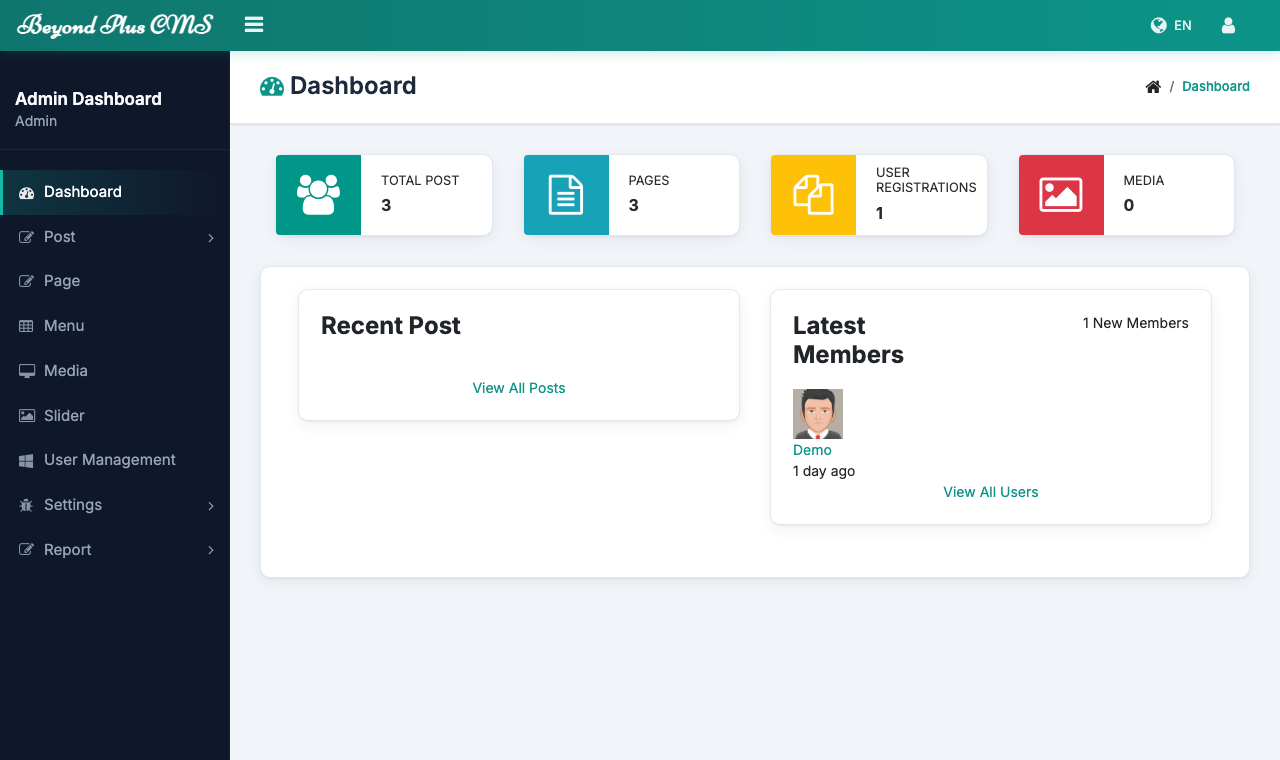
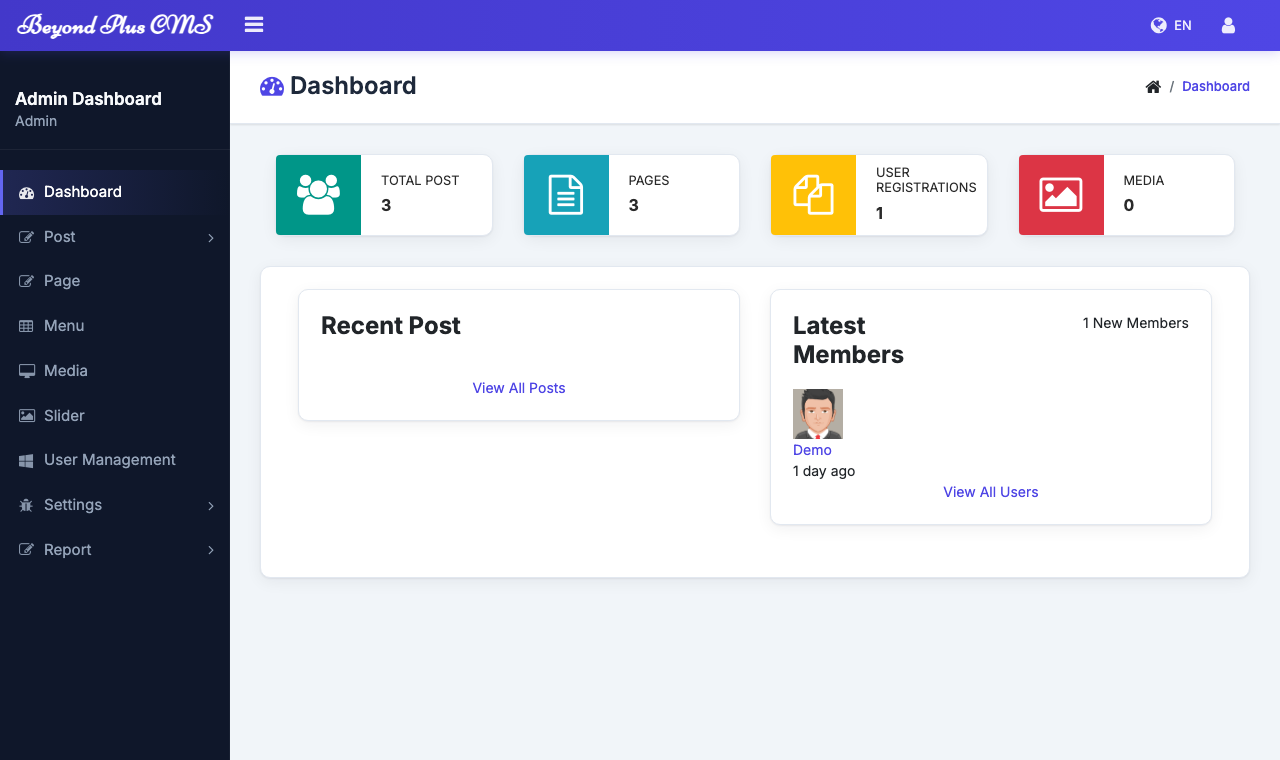
Recolour the admin from teal to indigo
Switch the backend palette to indigo per design preference: header gradient
#4338CA -> #4F46E5, active menu / accents #6366F1, buttons #4F46E5 (hover
#3730A3), focus ring #818CF8; the dark slate sidebar is unchanged. Applied to
bp-admin-theme.css, the admin + generic login pages, and the teal accents in the
plugin/theme/menu/permission views. Green is kept only for semantic "Active"
status badges. Refresh the admin screenshots to match.

diff --git a/public/css/bp-admin-theme.css b/public/css/bp-admin-theme.css
@@ -4,10 +4,12 @@
    and polishes the header, sidebar, cards, forms and buttons.
    ========================================================================== */
 :root {
-    --bp-brand:      #0d9488;   /* teal-600 */
-    --bp-brand-dark: #0f766e;   /* teal-700 */
-    --bp-brand-600:  #0ea5a5;
-    --bp-accent:     #14b8a6;
+    --bp-brand:      #4f46e5;   /* indigo-600 */
+    --bp-brand-dark: #4338ca;   /* indigo-700 (header dark end) */
+    --bp-brand-hover:#3730a3;   /* indigo-800 (button hover) */
+    --bp-brand-600:  #6366f1;
+    --bp-accent:     #6366f1;   /* indigo-500 (active accent) */
+    --bp-focus:      #818cf8;   /* indigo-400 (focus ring) */
     --bp-sidebar:    #0f172a;   /* slate-900 */
     --bp-sidebar-2:  #1e293b;   /* slate-800 */
     --bp-sidebar-tx: #94a3b8;   /* slate-400 */
@@ -28,7 +30,7 @@ body, .app-menu__label, .breadcrumb, .tile, .app-title h1 {
 /* ---- Header --------------------------------------------------------------- */
 .app-header {
     background: linear-gradient(90deg, var(--bp-brand-dark), var(--bp-brand)) !important;
-    box-shadow: 0 1px 12px rgba(13,148,136,.25);
+    box-shadow: 0 1px 12px rgba(79,70,229,.25);
     border: 0;
 }
 .app-header__logo,
@@ -64,7 +66,7 @@ body, .app-menu__label, .breadcrumb, .tile, .app-title h1 {
 }
 .app-menu__item.active,
 .treeview.is-expanded > .app-menu__item {
-    background: linear-gradient(90deg, rgba(20,184,166,.18), transparent) !important;
+    background: linear-gradient(90deg, rgba(99,102,241,.20), transparent) !important;
     color: #fff !important;
     border-left-color: var(--bp-accent);
 }
@@ -73,7 +75,7 @@ body, .app-menu__label, .breadcrumb, .tile, .app-title h1 {
 .treeview.is-expanded > .treeview-menu { display: block; }   /* keep active parent open */
 .treeview-item { color: var(--bp-sidebar-tx) !important; padding-left: 48px !important; border-left: 3px solid transparent; }
 .treeview-item:hover,
-.treeview-item.active { color:#fff !important; background: rgba(20,184,166,.12) !important; border-left-color: var(--bp-accent); }
+.treeview-item.active { color:#fff !important; background: rgba(99,102,241,.12) !important; border-left-color: var(--bp-accent); }
 
 /* ---- Page title / breadcrumb --------------------------------------------- */
 .app-title { border-bottom: 1px solid var(--bp-border); margin: -30px -30px 30px; padding: 22px 30px; background:#fff; }
@@ -100,8 +102,8 @@ body, .app-menu__label, .breadcrumb, .tile, .app-title h1 {
 }
 .btn-primary:hover, .btn-success:hover,
 .btn-primary:focus, .btn-success:focus {
-    background: var(--bp-brand-dark) !important;
-    border-color: var(--bp-brand-dark) !important;
+    background: var(--bp-brand-hover) !important;
+    border-color: var(--bp-brand-hover) !important;
 }
 .btn-outline-info { color: var(--bp-brand); border-color: var(--bp-brand); }
 .btn-outline-info:hover { background: var(--bp-brand); border-color: var(--bp-brand); color:#fff; }
@@ -116,7 +118,7 @@ a:hover { color: var(--bp-brand-dark); }
 }
 .form-control:focus {
     border-color: var(--bp-accent);
-    box-shadow: 0 0 0 3px rgba(20,184,166,.18);
+    box-shadow: 0 0 0 3px rgba(129,140,248,.35);
 }
 .control-label, label { color: var(--bp-ink); font-weight: 500; }
 

diff --git a/resources/views/auth/adminlogin.blade.php b/resources/views/auth/adminlogin.blade.php
@@ -9,12 +9,12 @@
     <link rel="stylesheet" href="https://cdnjs.cloudflare.com/ajax/libs/font-awesome/6.5.1/css/all.min.css">
     <link rel="stylesheet" href="https://fonts.googleapis.com/css2?family=Inter:wght@400;500;600;700&display=swap">
     <style>
-        :root { --bp-brand:#0d9488; --bp-brand-dark:#0f766e; --bp-accent:#14b8a6; }
+        :root { --bp-brand:#4f46e5; --bp-brand-dark:#4338ca; --bp-accent:#6366f1; }
         * { font-family:'Inter',-apple-system,"Segoe UI",Roboto,sans-serif; }
         body {
             min-height:100vh; margin:0; display:flex; align-items:center; justify-content:center;
-            background: radial-gradient(1200px 600px at 20% -10%, #14b8a6 0%, transparent 55%),
-                        linear-gradient(135deg, #0f766e 0%, #0f172a 100%);
+            background: radial-gradient(1200px 600px at 20% -10%, #6366f1 0%, transparent 55%),
+                        linear-gradient(135deg, #4338ca 0%, #0f172a 100%);
             padding: 24px;
         }
         .login-card { width:100%; max-width:420px; background:#fff; border-radius:16px; box-shadow:0 24px 60px rgba(2,6,23,.35); overflow:hidden; }
@@ -22,19 +22,19 @@
         .login-badge {
             width:56px; height:56px; margin:0 auto 14px; border-radius:14px; color:#fff;
             display:flex; align-items:center; justify-content:center; font-size:1.5rem;
-            background:linear-gradient(135deg,var(--bp-brand),var(--bp-accent)); box-shadow:0 8px 20px rgba(13,148,136,.4);
+            background:linear-gradient(135deg,var(--bp-brand),var(--bp-accent)); box-shadow:0 8px 20px rgba(79,70,229,.4);
         }
         .login-head h1 { font-size:1.35rem; font-weight:700; color:#0f172a; margin:0; }
         .login-head p { color:#64748b; margin:.35rem 0 0; font-size:.9rem; }
         .login-body { padding: 20px 34px 34px; }
         .form-label { font-weight:500; color:#1e293b; font-size:.85rem; }
         .form-control { border-radius:10px; padding:.6rem .85rem; border:1px solid #e2e8f0; }
-        .form-control:focus { border-color:var(--bp-accent); box-shadow:0 0 0 3px rgba(20,184,166,.18); }
+        .form-control:focus { border-color:var(--bp-accent); box-shadow:0 0 0 3px rgba(129,140,248,.35); }
         .input-group-text { background:#f8fafc; border:1px solid #e2e8f0; border-right:0; border-radius:10px 0 0 10px; color:#94a3b8; }
         .input-group .form-control { border-left:0; border-radius:0 10px 10px 0; }
         .btn-brand {
             background:linear-gradient(135deg,var(--bp-brand),var(--bp-brand-dark)); color:#fff; border:0;
-            border-radius:10px; padding:.65rem; font-weight:600; width:100%; box-shadow:0 8px 18px rgba(13,148,136,.3); transition:filter .15s ease;
+            border-radius:10px; padding:.65rem; font-weight:600; width:100%; box-shadow:0 8px 18px rgba(79,70,229,.3); transition:filter .15s ease;
         }
         .btn-brand:hover { filter:brightness(1.07); color:#fff; }
         .login-foot { text-align:center; color:#94a3b8; font-size:.82rem; padding-bottom:26px; }

diff --git a/resources/views/auth/login.blade.php b/resources/views/auth/login.blade.php
@@ -9,12 +9,12 @@
     <link rel="stylesheet" href="https://cdnjs.cloudflare.com/ajax/libs/font-awesome/6.5.1/css/all.min.css">
     <link rel="stylesheet" href="https://fonts.googleapis.com/css2?family=Inter:wght@400;500;600;700&display=swap">
     <style>
-        :root { --bp-brand:#0d9488; --bp-brand-dark:#0f766e; --bp-accent:#14b8a6; }
+        :root { --bp-brand:#4f46e5; --bp-brand-dark:#4338ca; --bp-accent:#6366f1; }
         * { font-family:'Inter',-apple-system,"Segoe UI",Roboto,sans-serif; }
         body {
             min-height:100vh; margin:0; display:flex; align-items:center; justify-content:center;
-            background: radial-gradient(1200px 600px at 20% -10%, #14b8a6 0%, transparent 55%),
-                        linear-gradient(135deg, #0f766e 0%, #0f172a 100%);
+            background: radial-gradient(1200px 600px at 20% -10%, #6366f1 0%, transparent 55%),
+                        linear-gradient(135deg, #4338ca 0%, #0f172a 100%);
             padding: 24px;
         }
         .login-card {
@@ -26,20 +26,20 @@
             width:56px; height:56px; margin:0 auto 14px; border-radius:14px; color:#fff;
             display:flex; align-items:center; justify-content:center; font-size:1.5rem;
             background:linear-gradient(135deg,var(--bp-brand),var(--bp-accent));
-            box-shadow:0 8px 20px rgba(13,148,136,.4);
+            box-shadow:0 8px 20px rgba(79,70,229,.4);
         }
         .login-head h1 { font-size:1.35rem; font-weight:700; color:#0f172a; margin:0; }
         .login-head p { color:#64748b; margin:.35rem 0 0; font-size:.9rem; }
         .login-body { padding: 20px 34px 34px; }
         .form-label { font-weight:500; color:#1e293b; font-size:.85rem; }
         .form-control { border-radius:10px; padding:.6rem .85rem; border:1px solid #e2e8f0; }
-        .form-control:focus { border-color:var(--bp-accent); box-shadow:0 0 0 3px rgba(20,184,166,.18); }
+        .form-control:focus { border-color:var(--bp-accent); box-shadow:0 0 0 3px rgba(129,140,248,.35); }
         .input-group-text { background:#f8fafc; border:1px solid #e2e8f0; border-right:0; border-radius:10px 0 0 10px; color:#94a3b8; }
         .input-group .form-control { border-left:0; border-radius:0 10px 10px 0; }
         .btn-brand {
             background:linear-gradient(135deg,var(--bp-brand),var(--bp-brand-dark)); color:#fff;
             border:0; border-radius:10px; padding:.65rem; font-weight:600; width:100%;
-            box-shadow:0 8px 18px rgba(13,148,136,.3); transition:filter .15s ease;
+            box-shadow:0 8px 18px rgba(79,70,229,.3); transition:filter .15s ease;
         }
         .btn-brand:hover { filter:brightness(1.07); color:#fff; }
         .login-foot { text-align:center; color:#94a3b8; font-size:.82rem; padding-bottom:26px; }

diff --git a/resources/views/bp-admin/layouts/admin/index.blade.php b/resources/views/bp-admin/layouts/admin/index.blade.php
@@ -27,7 +27,7 @@
     <link rel="stylesheet" type="text/css" href="https://maxcdn.bootstrapcdn.com/font-awesome/4.7.0/css/font-awesome.min.css">
     <!-- Fonts + Beyond Plus admin theme (overrides the base) -->
     <link rel="stylesheet" href="https://fonts.googleapis.com/css2?family=Inter:wght@400;500;600;700&family=Noto+Sans+Myanmar:wght@400;500;600&display=swap">
-    <link rel="stylesheet" type="text/css" href="{{ asset('css/bp-admin-theme.css') }}?v=2">
+    <link rel="stylesheet" type="text/css" href="{{ asset('css/bp-admin-theme.css') }}?v=3">
     <script src="{{ asset ("/bower_components/adminlte/plugins/jQuery/jQuery-2.1.4.min.js") }}"></script>
     <script type="text/javascript">
         $.ajaxSetup({

diff --git a/resources/views/bp-admin/menu/index.blade.php b/resources/views/bp-admin/menu/index.blade.php
@@ -14,7 +14,7 @@
         padding: .5rem .75rem; margin-bottom: .5rem;
         box-shadow: 0 1px 2px rgba(0,0,0,.04); transition: border-color .12s ease;
     }
-    .menu-item-row:hover { border-color: #14b8a6; }
+    .menu-item-row:hover { border-color: #6366f1; }
     .menu-block .menu-block { margin-left: 1.25rem; padding-left: 1rem; border-left: 2px solid #e5e7eb; }
     .menu-grip { color: #9ca3af; cursor: grab; }
     .menu-title { font-weight: 600; color: #111827; }

diff --git a/resources/views/bp-admin/permission/index.blade.php b/resources/views/bp-admin/permission/index.blade.php
@@ -6,7 +6,7 @@
 <style>
     .perm-table td { vertical-align: middle; }
     .perm-role-row td {
-        background: #0f766e; color: #fff; font-weight: 600;
+        background: #4338ca; color: #fff; font-weight: 600;
         letter-spacing: .3px; text-transform: capitalize;
     }
     .perm-name { font-weight: 500; color: #111827; }

diff --git a/resources/views/bp-admin/plugin/index.blade.php b/resources/views/bp-admin/plugin/index.blade.php
@@ -6,7 +6,7 @@
 <style>
     .plugin-card { border: 1px solid #e5e7eb; border-radius: 10px; height: 100%; transition: box-shadow .15s ease; }
     .plugin-card:hover { box-shadow: 0 .5rem 1.2rem rgba(0,0,0,.08); }
-    .plugin-card.active { border-color: #14b8a6; box-shadow: 0 0 0 2px rgba(20,184,166,.2); }
+    .plugin-card.active { border-color: #6366f1; box-shadow: 0 0 0 2px rgba(99,102,241,.2); }
     .plugin-meta { font-size: .78rem; color: #6b7280; }
     .plugin-empty { border: 1px dashed #d1d5db; border-radius: 8px; }
 </style>

diff --git a/resources/views/bp-admin/theme/index.blade.php b/resources/views/bp-admin/theme/index.blade.php
@@ -6,7 +6,7 @@
 <style>
     .theme-card { border: 1px solid #e5e7eb; border-radius: 10px; overflow: hidden; transition: box-shadow .15s ease; height: 100%; }
     .theme-card:hover { box-shadow: 0 .6rem 1.4rem rgba(0,0,0,.10); }
-    .theme-card.active { border-color: #14b8a6; box-shadow: 0 0 0 2px rgba(20,184,166,.25); }
+    .theme-card.active { border-color: #6366f1; box-shadow: 0 0 0 2px rgba(99,102,241,.25); }
     .theme-thumb { height: 180px; background: #f3f4f6 center/cover no-repeat; display: flex; align-items: center; justify-content: center; color: #9ca3af; }
     .theme-thumb img { width: 100%; height: 100%; object-fit: cover; object-position: top; }
     .theme-meta { font-size: .78rem; color: #6b7280; }